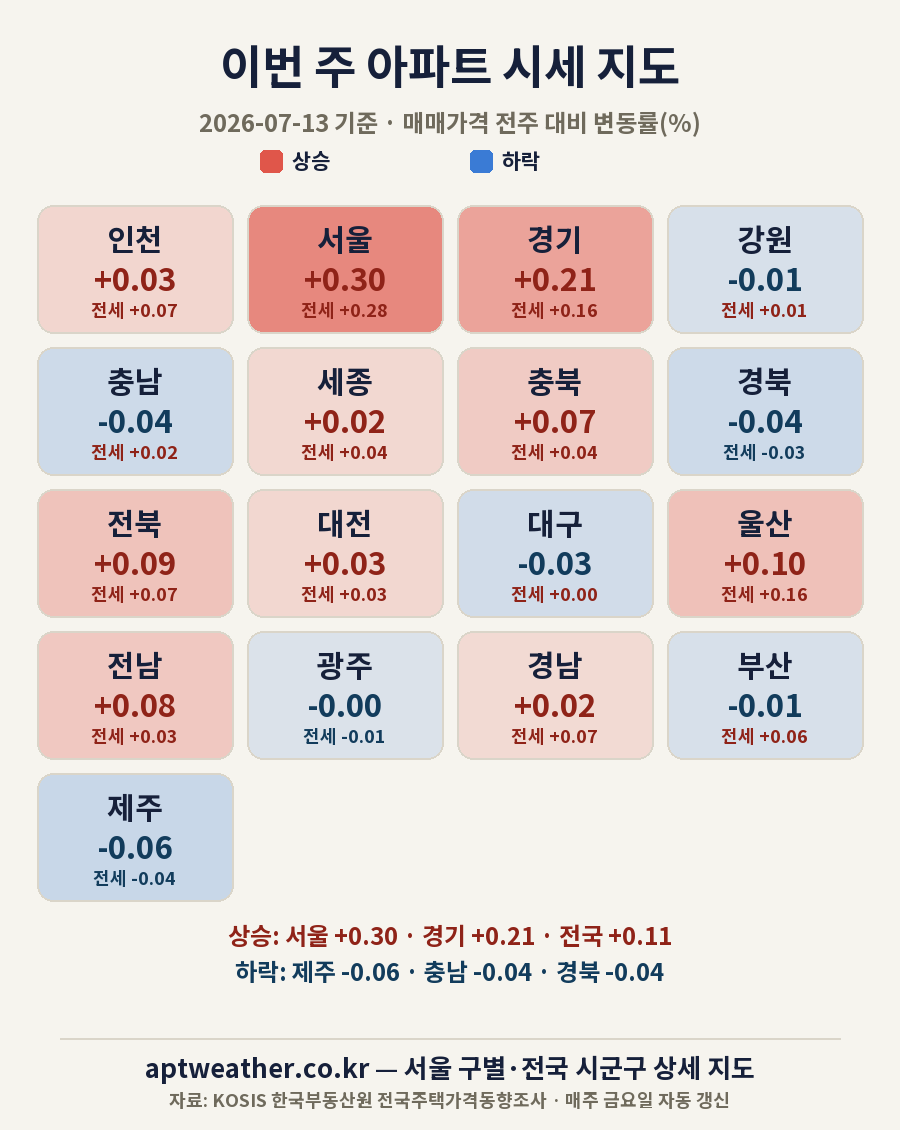
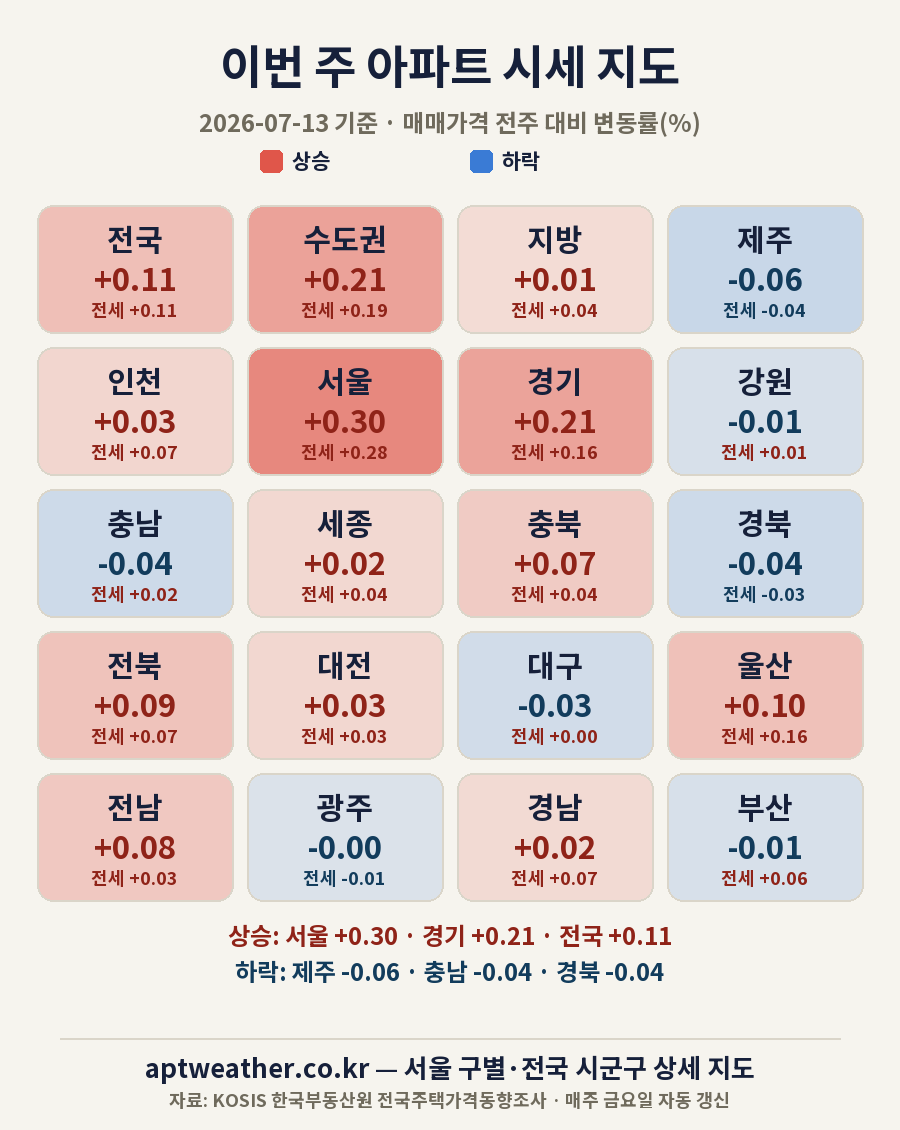
지도 v4: 요약/상세 명칭 + 요약 4×5(전국·수도권·지방 추가) + TOP10 지도 위로 + 추가 압축
- 스코프 버튼 전국→요약 (상세도 전국이므로)
- 주간·월간 데이터에 전국·지방 수집 추가(20개 지역) — 요약 타일이 4×5로 꽉 참(제주 외톨이 해결)
- 상승·하락 TOP10 표를 기준일 배지 바로 아래(지도 위)로 이동, 하락 타이틀 화살표 파란색
- 상세 지도 추가 압축: 평택·영도 행 당김(12×27), 타일 54px·간격 3px (폭 740→681)
- 공유 이미지(weekly-map.png)도 4×5 동일 배치로 재생성, /weekly/ 랜딩 문구 현행화
- 뉴스레터: 발송 트리거를 모든 통계로 확장(이전 패치 누락분), 표에 전국 추가

diff --git a/tools/update_adv_data.py b/tools/update_adv_data.py
@@ -53,7 +53,7 @@ CONF = {
     },
 }
 
-WEEKLY_REGIONS = ['수도권','서울','경기','인천','부산','대구','광주','대전','세종','울산',
+WEEKLY_REGIONS = ['전국','수도권','지방','서울','경기','인천','부산','대구','광주','대전','세종','울산',
                   '강원','충북','충남','전북','전남','경북','경남','제주']
 
 # ---- 버블밴드 (전월세전환율 × 전세가율 밴드 vs 주담대금리) -------------------
@@ -279,7 +279,7 @@ def fetch_weekly_rone():
         raise RuntimeError('R-ONE 주간 데이터 부족')
 
     def sido(week, name):   # 시도·수도권 (광주/전남은 상위그룹 밑에 있음)
-        full = {'광주': '전남광주>광주', '전남': '전남광주>전남'}.get(name, name)
+        full = {'광주': '전남광주>광주', '전남': '전남광주>전남', '지방': '지방권'}.get(name, name)
         return week.get(full)
 
     def seoul_gu(week):

diff --git a/tools/send_newsletter.py b/tools/send_newsletter.py
@@ -22,7 +22,7 @@ API = 'https://api.buttondown.com/v1/emails'
 KEY = os.environ.get('BUTTONDOWN_API_KEY', '')
 SITE = 'https://www.aptweather.co.kr'
 
-CORE = ['수도권', '서울', '경기', '인천', '세종', '부산', '대구']
+CORE = ['전국', '수도권', '서울', '경기', '인천', '세종', '부산', '대구']
 
 
 def read_adv():
@@ -160,8 +160,8 @@ def main():
             changed = io.open(CHANGED, encoding='utf-8').read()
         except IOError:
             changed = ''
-        if 'weekly' not in changed and 'monthly' not in changed:
-            print('skip: 이번 실행에서 주간·월간 데이터 갱신 없음')
+        if not any(k in changed for k in ('weekly', 'monthly', 'permits', 'occupancy', '금리')):
+            print('skip: 이번 실행에서 통계 갱신 없음')
             return
     subject, body = build_body(changed)
     if preview:

diff --git a/tools/make_weekly_share.py b/tools/make_weekly_share.py
@@ -20,11 +20,11 @@ LINE = (218, 213, 201)
 UP = (224, 86, 74)
 DN = (58, 123, 213)
 
-TILE = [('인천', 0, 0), ('서울', 1, 0), ('경기', 2, 0), ('강원', 3, 0),
-        ('충남', 0, 1), ('세종', 1, 1), ('충북', 2, 1), ('경북', 3, 1),
-        ('전북', 0, 2), ('대전', 1, 2), ('대구', 2, 2), ('울산', 3, 2),
-        ('전남', 0, 3), ('광주', 1, 3), ('경남', 2, 3), ('부산', 3, 3),
-        ('제주', 0, 4)]
+TILE = [('전국', 0, 0), ('수도권', 1, 0), ('지방', 2, 0), ('제주', 3, 0),
+        ('인천', 0, 1), ('서울', 1, 1), ('경기', 2, 1), ('강원', 3, 1),
+        ('충남', 0, 2), ('세종', 1, 2), ('충북', 2, 2), ('경북', 3, 2),
+        ('전북', 0, 3), ('대전', 1, 3), ('대구', 2, 3), ('울산', 3, 3),
+        ('전남', 0, 4), ('광주', 1, 4), ('경남', 2, 4), ('부산', 3, 4)]
 
 
 def load_weekly():
